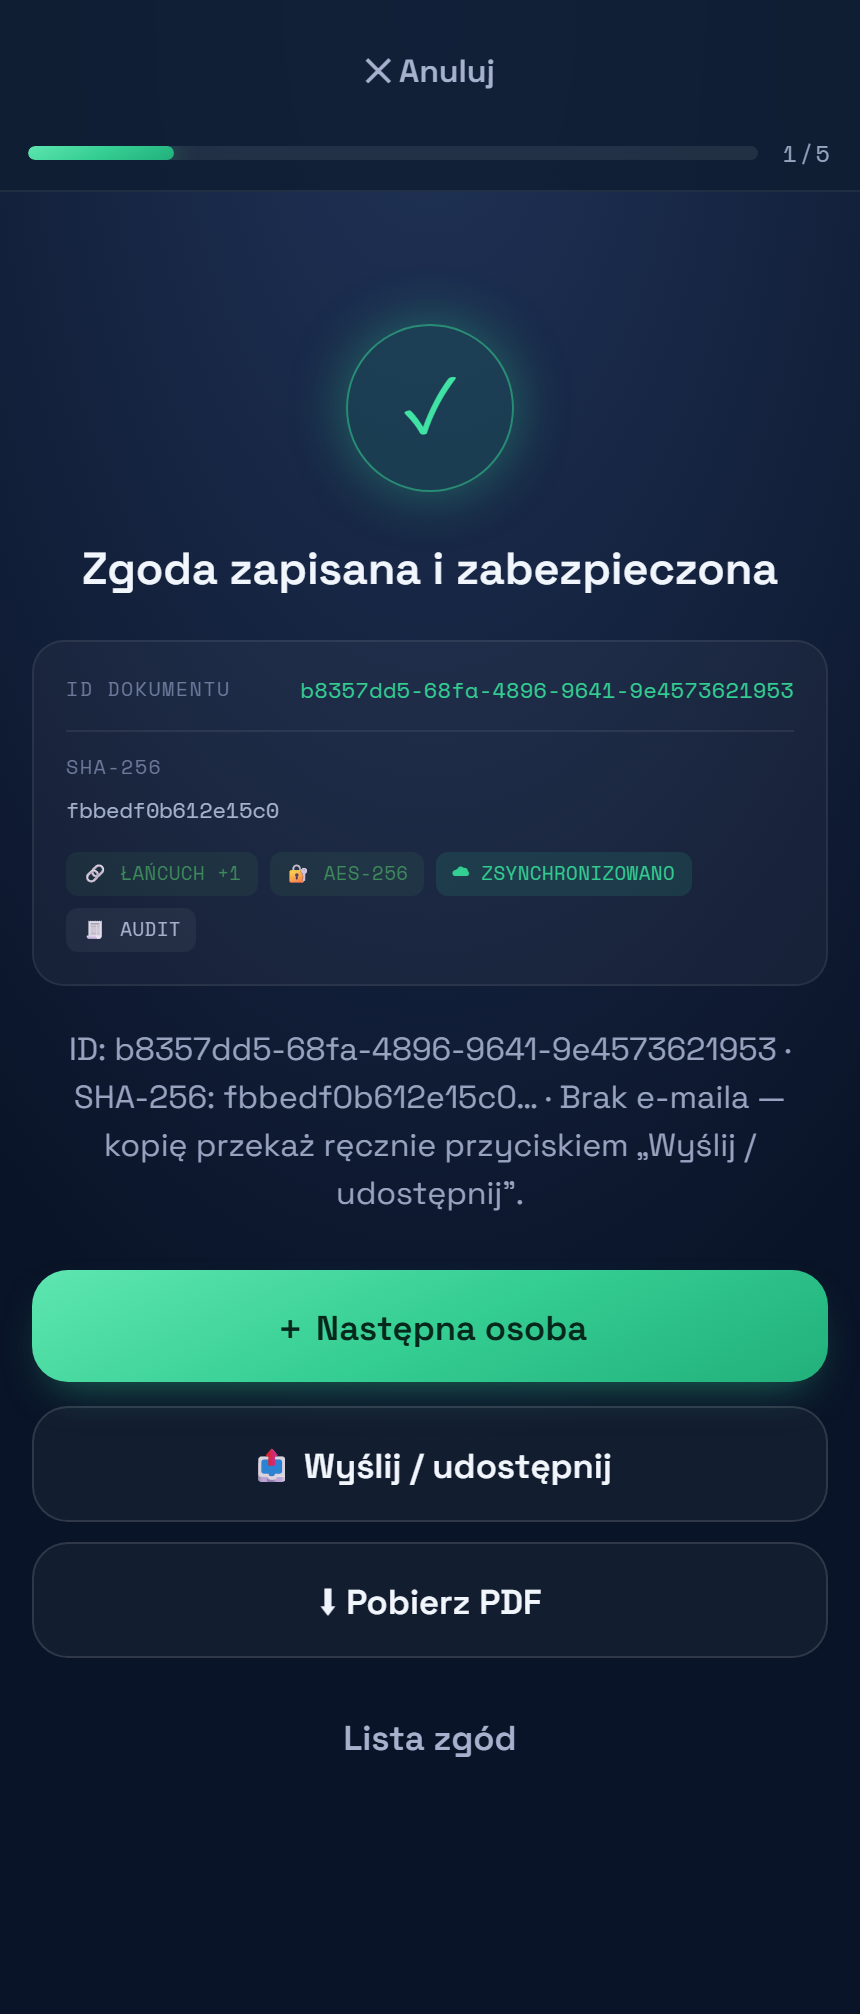
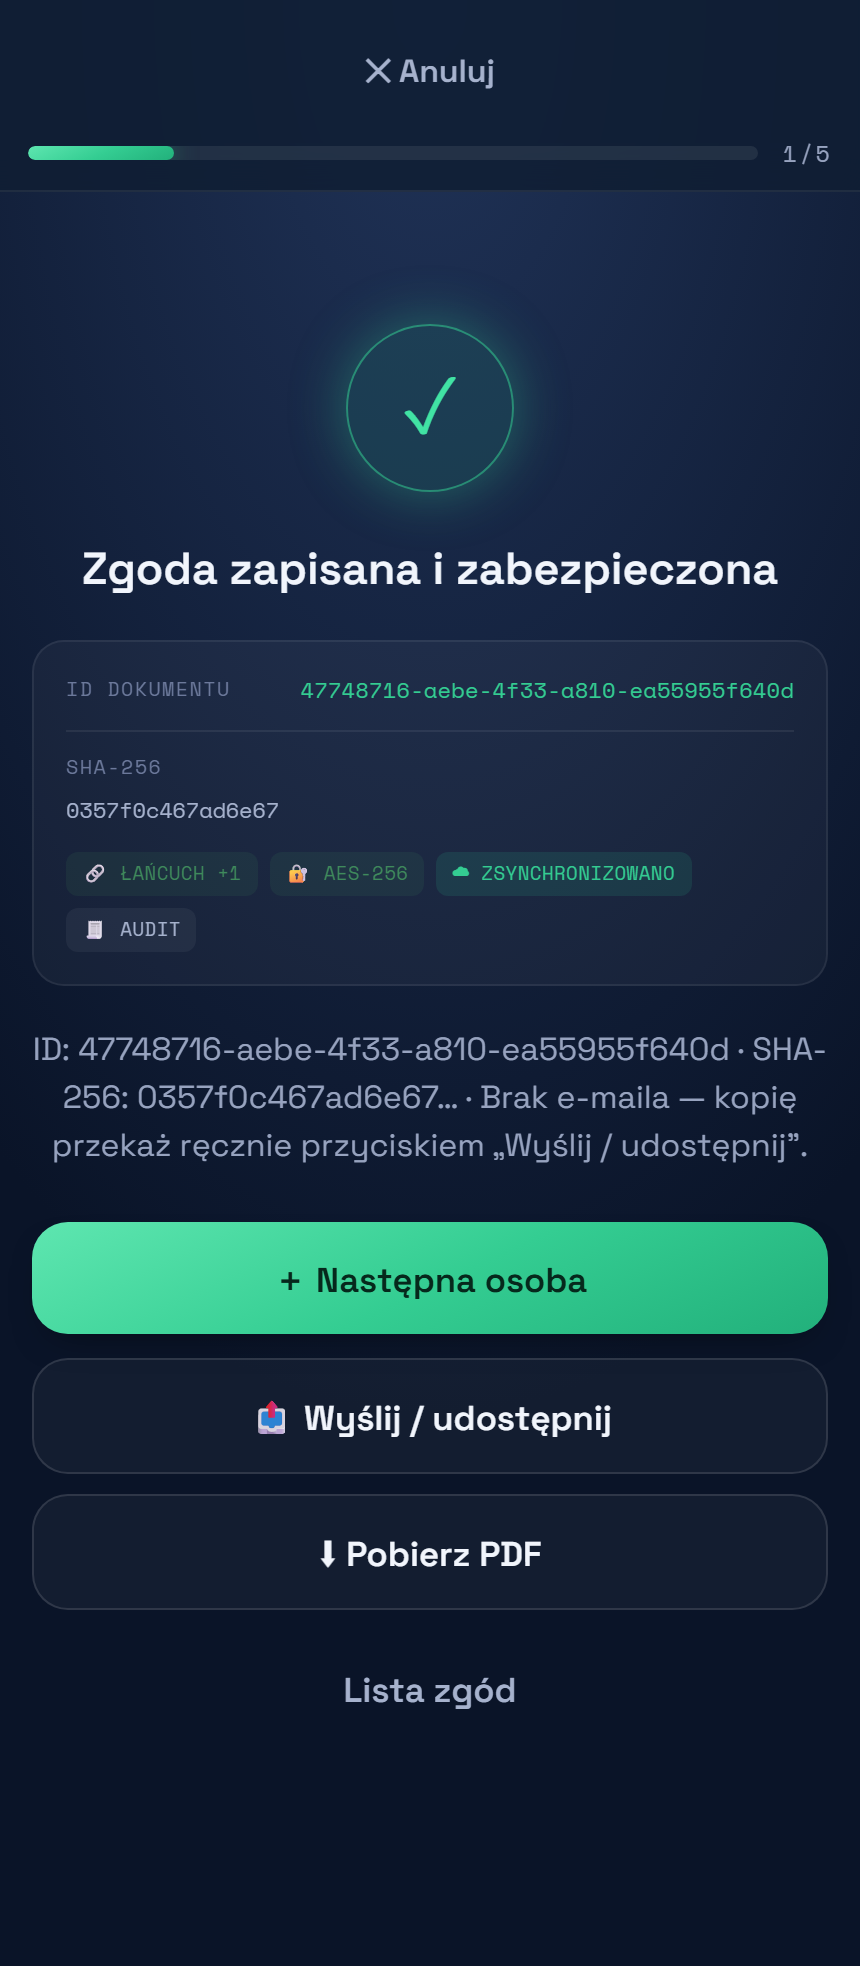
Ekran główny: loga w pełnym rozmiarze jak na logowaniu (Offhand + pełny wordmark SignOff)

diff --git a/style.css b/style.css
@@ -109,7 +109,8 @@ a { color: var(--accent); }
 .wordmark.sm .nm { font-size: 1.12rem; }
 .wordmark.sm .by { font-size: .48rem; letter-spacing: .2em; }
 .topbar-brand { display: flex; align-items: center; justify-content: space-between; gap: 12px; }
-.brand-mark-lead { height: 30px; width: auto; flex: 0 0 auto; }
+.topbar-brand .wordmark { align-items: flex-end; }
+.brand-mark-lead { height: 46px; width: auto; flex: 0 0 auto; }
 .brand-mark-corner { height: 26px; width: auto; flex: 0 0 auto; opacity: .92; }
 .lock-mark { display: flex; justify-content: center; margin: 24px 0 8px; }
 .lock-mark img { height: 74px; width: auto; opacity: .92; }

diff --git a/index.html b/index.html
@@ -115,7 +115,7 @@
 <!-- ===== EKRAN: GŁÓWNY ===== -->
 <section id="view-home" class="view" hidden>
   <header class="topbar">
-    <div class="topbar-brand"><img class="brand-mark-lead" src="icons/offhand-mark-cream.png" alt=""><div class="wordmark sm"><span class="nm">Sign<b>Off</b></span><span class="by">by Offhand</span></div></div>
+    <div class="topbar-brand"><img class="brand-mark-lead" src="icons/offhand-mark-cream.png" alt="Offhand"><div class="wordmark"><span class="nm">Sign<b>Off</b></span><span class="by">by Offhand</span></div></div>
     <div class="topbar-right">
       <span id="sync-badge" class="hb-sync" data-help="Stan kopii w chmurze. Godzina = ostatnia udana synchronizacja; „oczekuje” = wyśle przy najbliższym połączeniu.">☁ —</span>
       <span id="user-name" class="hb-name" data-help="Zalogowany użytkownik."></span>

diff --git a/sw.js b/sw.js
@@ -1,7 +1,7 @@
 /* SignOff service worker — pełny offline + bezpieczna automatyczna aktualizacja.
    Nowa wersja pobiera się w tle (gdy online), ale aktywuje się dopiero gdy użytkownik
    dotknie „Odśwież" albo przy następnym otwarciu aplikacji — nigdy w trakcie zgody. */
-const CACHE = "signoff-v50";
+const CACHE = "signoff-v51";
 const ASSETS = [
   "./", "index.html", "style.css", "app.js", "manifest.json",
   "icons/icon-192.png", "icons/icon-512.png", "icons/offhand-logo.svg", "icons/offhand-mark-cream.png",